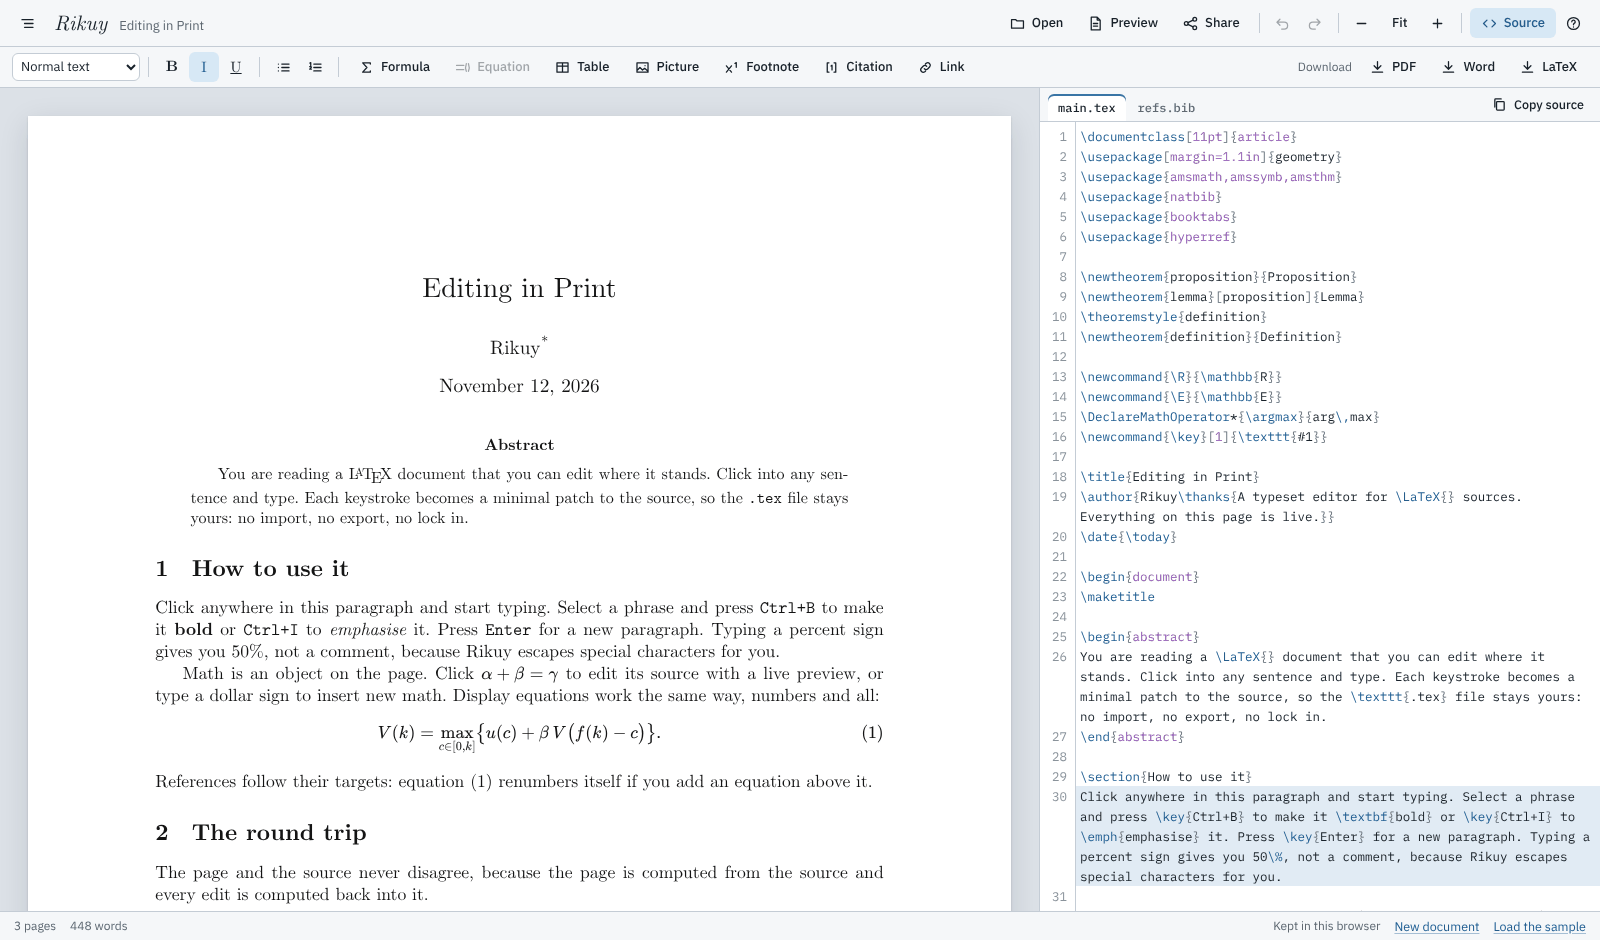
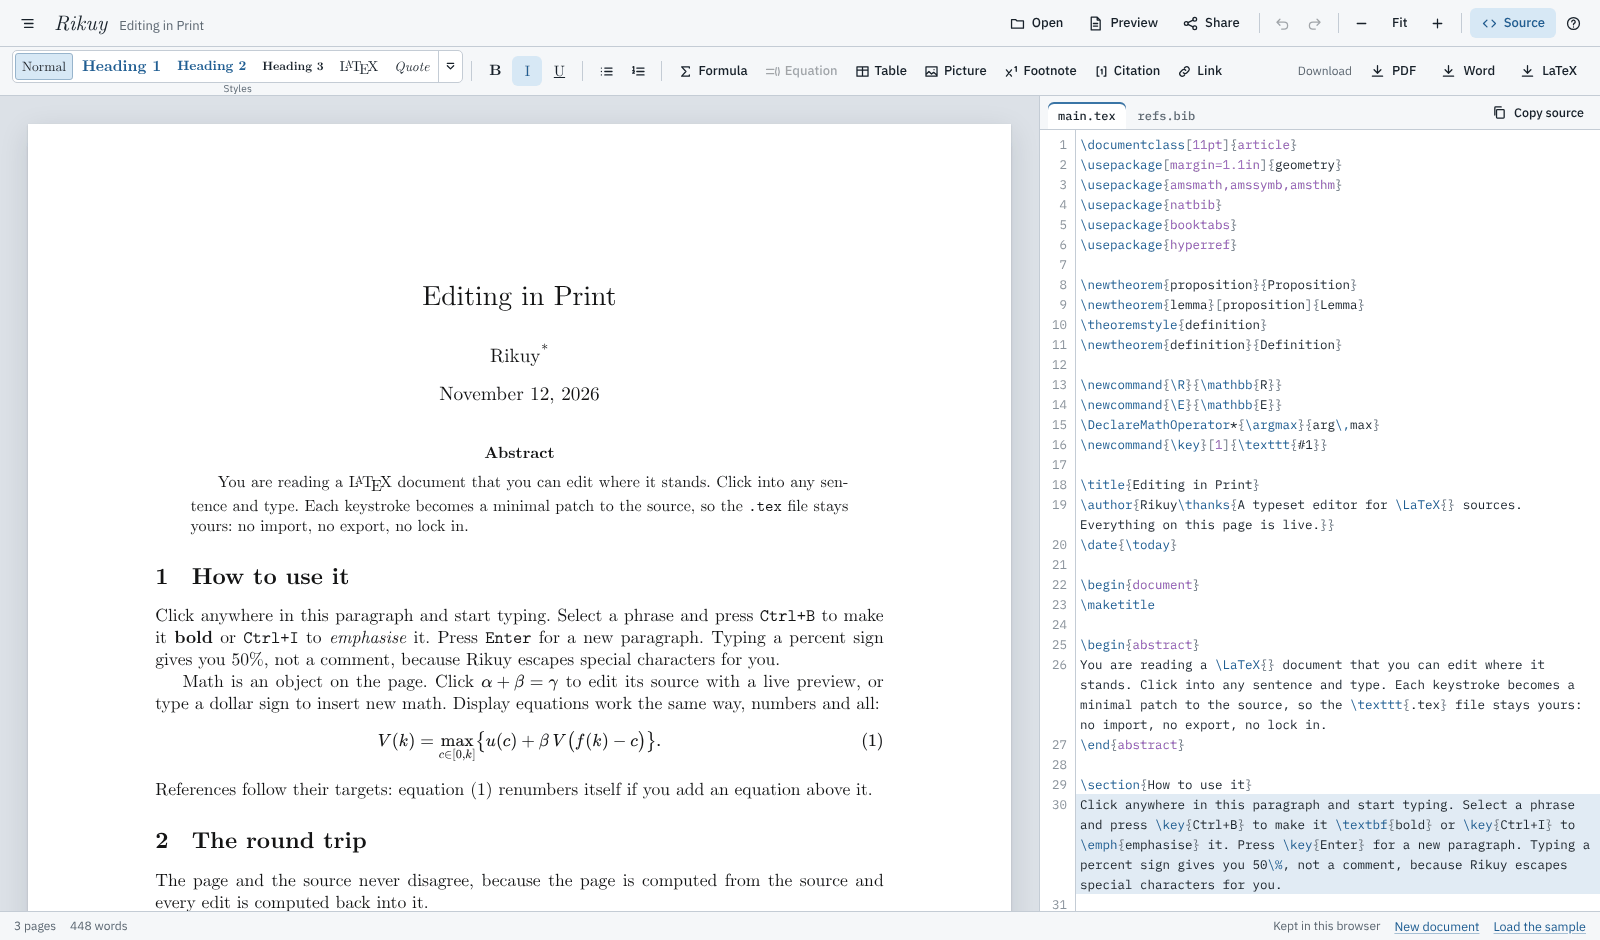
The README's screenshot and social card show the Styles gallery; PLAN.md task 37
dev/readme_images.py run on this branch's build, as AGENTS.md asks
whenever the ribbon changes: docs/screenshot.png (also the hosted
og.png's editor) and docs/social.png now show the gallery with LaTeX
among the tiles. The logos are unchanged byte for byte. PLAN.md records
the task, its two hostile reviews and what is left.

Evidence, on this branch rebased onto main (fecad0b): npm test green,
ribbon.py 265, agent.py 118, browser.py 189, offline.py 54/54,
launch.py 18/18, deploy_check.py 43/43, pages_check fits.

Claude-Session: https://claude.ai/code/session_011PpCfkd1KHBb2oNJ9yUUQ4

diff --git a/PLAN.md b/PLAN.md
@@ -825,6 +825,23 @@ Tests:
     documents by address: what anyone kept at `rikuy-3dl.pages.dev` stays reachable there.
     Evidence: `deploy_check.py` 43/43, `agent.py` as before; the live check is in the pull request.
 
+37. **Styles as in Word, with LaTeX among them.** Done in the code (pull request 13), asked for by
+    the owner ("Word + PDF + LaTeX in one, so one of the styles that appear right off should be
+    LaTeX"). A Styles gallery in the ribbon after Word's and WordCraft's (design only, no code
+    taken): Normal, Title in the title, Heading 1 to 3, LaTeX and Quote, each name drawn in its
+    own look, paging arrows and a More menu, the select below 1024 px. LaTeX marks a paragraph
+    with the comment line `% rikuy: latex` (`src/styles.js`): the page shows that paragraph as
+    its source and takes typing as LaTeX, TeX ignores the line, so the PDF is unchanged. Quote
+    wraps the paragraph in a `quote` environment and takes it off byte for byte. Two fresh
+    hostile reviewers (Claude agents, not the free models `docs/REVIEW_PROCESS.md` names): one on
+    use, access and agents (13 findings, the worst the toolbar moving under the pointer while
+    paging), one on the source (12 findings, two high: the caret after a line to come, and words
+    a coauthor added in Word inside a LaTeX paragraph landing in the one before); every finding
+    fixed with a regression test but one, decided and written down: the mark counts only at a
+    paragraph's start. Evidence: `ribbon.py` 265 (146 before), `agent.py` 118, `browser.py` 189,
+    `word.py` 110 with LibreOffice, the corpus's 716 models unchanged. Not done: the right click
+    menu on tiles; typing in a box through an input method; Safari and Firefox.
+
 ## Open tasks
 
 16. **The arXiv corpus** (task 3's finish line): compile rate and match rate on the 1,000
